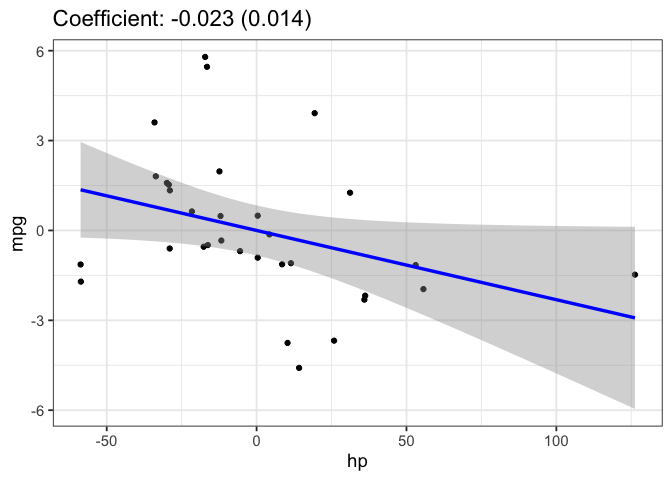
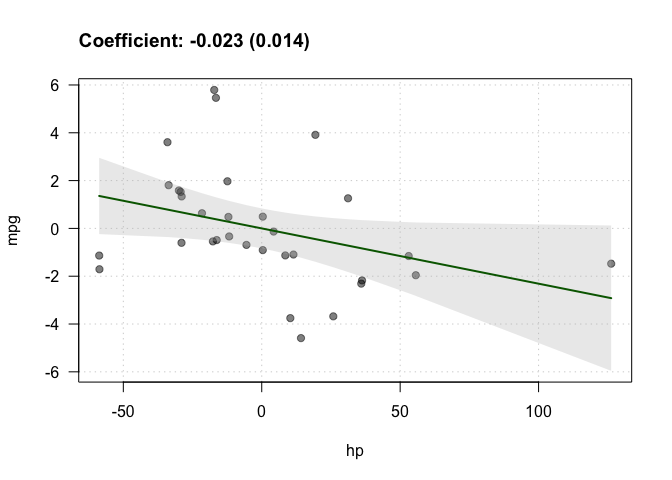
CRAN submission

diff --git a/README.md b/README.md
@@ -33,10 +33,26 @@ fwl_plot(mpg ~ hp, data = mtcars)
 
 ``` r
 
-fwl_plot(mpg ~ hp + wt | cyl, data = mtcars)
+fwl_plot(mpg ~ hp + wt | cyl, data = mtcars, vcov = "hc1")
 ```
 
 <img src="man/figures/README-unnamed-chunk-2-2.png" width="100%" />
+
+This is meant to (as much as possible) be a drop in replacement for
+`fixest::feols`. You should be able to replace `feols` with `fwl_plot`
+and get a plot.
+
+``` r
+fwl_plot(mpg ~ hp + wt | cyl, data = mtcars, vcov = ~cyl)
+```
+
+<img src="man/figures/README-unnamed-chunk-3-1.png" width="100%" />
+
+``` r
+fwl_plot(mpg ~ hp + wt, data = mtcars, subset = (mtcars$cyl == 4))
+```
+
+<img src="man/figures/README-unnamed-chunk-3-2.png" width="100%" />
 
 `ggplot` works too!
 
@@ -46,4 +62,4 @@ fwl_plot(mpg ~ hp + wt | cyl, data = mtcars, ggplot = TRUE) +
   theme_bw(base_size = 14)
 ```
 
-<img src="man/figures/README-unnamed-chunk-3-1.png" width="100%" />
+<img src="man/figures/README-unnamed-chunk-4-1.png" width="100%" />
